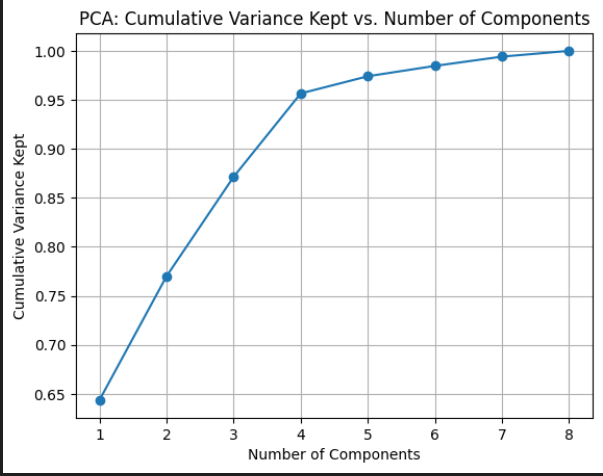
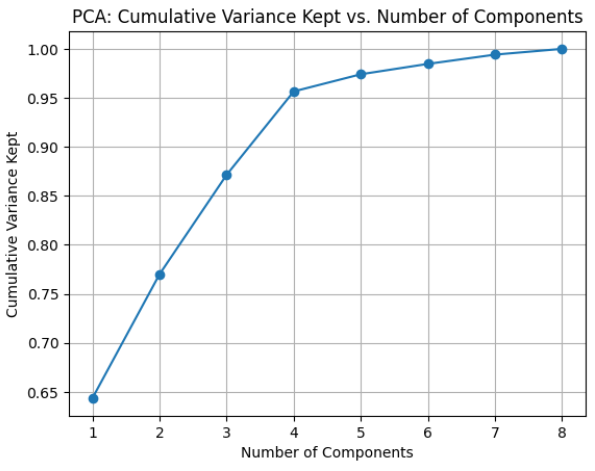
Centering Images

Changed region(s): [[0.0, 0.0, 1.0, 1.0]]

diff --git a/index.html b/index.html
@@ -214,7 +214,9 @@
         </ul>
         <p>
             An example of misaligned columns is provided below. This was the biggest issue in the uncleaned dataset - overall, there were 72 of these problems. 
-            <img src="./misaligned columns 1.png" alt="Misaligned columns" style="width: 100%; max-width: 600px; height: auto;">
+            <div style="text-align: center;">
+                <img src="./misaligned columns 1.png" alt="Misaligned columns" style="width: 100%; max-width: 600px; height: auto;">
+            </div>
         </p>
 
 
@@ -235,7 +237,10 @@
 
         <p>
             Using the graph below, we determined that we could keep 4 Principal Components for every user, effectively reducing our training and testing dataset. This is because we are able to keep at least 95% of the total variance with just 4 Principal Components. After this, we adjusted our training and testing datasets.
-            <img src="./PCA_Graph.png" style="width: 100%; max-width: 600px; height: auto;">
+            <div style="text-align: center;">
+                <img src="./PCA_Graph.png" style="width: 100%; max-width: 600px; height: auto;">
+            </div>
+            
         </p>
         <p>
             However, our PCA feature reduced datasets aren't working well on well-known ML models. The highest accuracy we got with a model was with k-Nearest Neighbors, but that was 49%. This is really bad and shows the tradeoff between reducing datasets to predicting data points. This point is something to keep in mind when looking at the results of our model with and without PCA.
